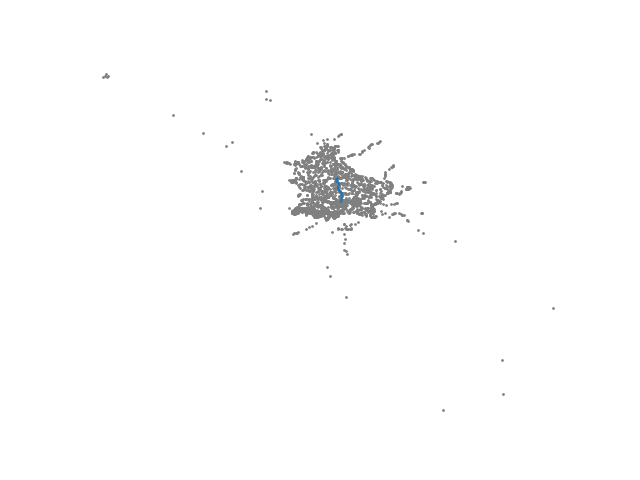
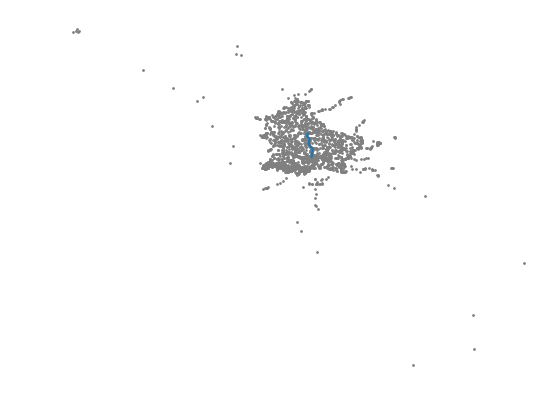
aggiunte ultime tre tratte e descrizione della coda di priorità

diff --git a/Lab2/Script/mapPrinter.py b/Lab2/Script/mapPrinter.py
@@ -52,11 +52,11 @@ def mapPrinter(graph, predecessors, lines, destination, departureTime):
     for s in changes:
         print(s)
     print("~~~~")
-    print("![](Immagini/" + path[len(path)-1] + "to" + path[0] + departureTime + ".png)")
+    print("![](Immagini/" + path[len(path)-1] + "to" + path[0] + ".png)")
     plt.plot(pathLng, pathLat, zorder=10)
     plt.plot(posLng, posLat, linestyle="none", marker="o", markersize=1, color="gray", zorder=1)
     plt.axis('off')
-    plt.savefig("../File vari/Immagini/" + path[len(path)-1] + "to" + path[0] + departureTime + ".png", bbox_inches='tight')
+    plt.savefig("../File vari/Immagini/" + path[len(path)-1] + "to" + path[0]  + ".png", bbox_inches='tight')
     plt.show()
 
 

diff --git a/Lab2/Script/main.py b/Lab2/Script/main.py
@@ -4,12 +4,16 @@ from Lab2.Script.mapPrinter import mapPrinter
 from Lab2.Script.Dijkstra import DijkstraSSSP
 from Lab2.Script.Time import Time
 import sys
+import random
 
 def main():
     g = FileParser()
-    start = sys.argv[1]
-    destination = sys.argv[2]
-    time = sys.argv[3]
+    #start = sys.argv[1]
+    #destination = sys.argv[2]
+    #time = sys.argv[3]
+    start = random.choice(list(g.nodes))
+    destination = random.choice(list(g.nodes))
+    time = "02218"
     #start = input("From what node are you starting to travel? ")
     #time = input("When do you want to leave? ")
     #destination = input("Where do you want to go? ")

diff --git a/Lab2/File vari/risposte.md b/Lab2/File vari/risposte.md
@@ -26,7 +26,16 @@ Nella classe che modella il grafo, nodi ed archi vengono gestiti con l'ausilio d
 
 ### Domanda 2
 
-Per risolvere il problema abbiamo utilizzato l'algoritmo di *Dijkstra*, implementando la coda di priorità con una *heap binaria*.
+Per risolvere il problema abbiamo utilizzato l'algoritmo di *Dijkstra*, implementando la coda di priorità con un *min-heap binario*.
+
+Il *min-heap binario* è una struttura dati che consiste in un albero binario nel quale il valore dei figli è maggiore del valore del padre, in questo modo la radice conterrà sempre il valore più basso.  
+L'heap viene implementato utilizzando un array nel quale la posizione *0* contienre un valore nullo mentre tutti i nodi dell'albero sono contenuti nelle altre posizioni con la regola che il nodo in posizione *i* avra come figlio sinistro il nodo in posizione *i\*2* e come figlio destro il nodo in posizione *i\*2+1*, abbiamo dunque utilizzato questa struttura per implementare la coda di priorità e in particolare i metodi significativi implementati sono:
+
+- extractMin(): viene estratto il nodo in posizione *1* dell'array e viene rimpiazzato dall'ultimo nodo presente nell'array, successivamente se il valore della nuova radice è maggiore dei due figli si effettua uno scambio tra il figlio minore e la radice, questo procedimento si ripete in maniera ricorsiva sul sotto-albero che ha come radice il nodo appena scambiato finchè non si trova la posizione corretta del nodo all'interno dell'albero.
+
+- InsertNode(n): l'operazione di inserimento del nodo mette in coda all'array e controlla che il suo valore sia maggiore di quello del padre, se non è così i due nodi vengono scambiati e questo procedimento si ripete finchè il nodo inserito è più grande del padre oppure quando diventa la radice.
+
+- decreaseKey(n, value): l'oerazione di decremento di priorità di un nodo prima trova il nodo all'interno dell'heap, decrementa il suo valore e successivamente lo fa risalire se necessario con lo stesso procedimento utilizzato in insertNode(n).
 
 L'algoritmo generico visto a lezione non può essere direttamente applicato al problema, poichè la soluzione di esso deve tener conto di una dipendenza dal tempo.
 Questa dipendenza ha portato ad una modifica della funzione che calcola il peso effettivo *w(A, B)*: per scegliere il percorso più breve da A a B a partire dal tempo *t*, è necessario tenere conto anche del tempo di attesa da *t* all'orario di partenza delle corse A -> B oltre al tempo di percorrenza di esse; *t*, quando viene passato a *w(A, B, t)*, è uguale alla somma dell'orario  di partenza dal nodo sorgente (in secondi) con il tempo minimo necessario ad arrivare A.
@@ -86,7 +95,7 @@ Orario di arrivo: 12:43
 
 12:20 : corsa 03712 C82 da 200417051 a 140701016
 ~~~~
-![](Immagini/200417051to14070101612:00.png)
+![](Immagini/200417051to140701016.png)
 
 
 - Viaggio da **200417051** a **140701016**
@@ -96,9 +105,57 @@ Orario di arrivo: 00:44
 
 00:09 : corsa 03623 C82 da 200417051 a 140701016
 ~~~~
-![](Immagini/200417051to14070101623:55.png)
+![](Immagini/200417051to140701016(2).png)
 
 
+- Viaggio da **130208003** a **400000129**
+~~~~ 
+Orario di partenza: 11:34
+Orario di arrivo: 13:21
+
+07:06 : corsa 01892 RGTR da 130208003 a 130203002
+07:18 : corsa 01875 RGTR da 130203002 a 140203001
+07:28 : corsa 03433 RGTR da 140203001 a 140401004
+07:39 : corsa 03528 CFLBUS da 140401004 a 140701016
+07:46 : corsa 00457 C82 da 140701016 a 200405035
+08:20 : corsa 04708 C82 da 200405035 a 200415004
+08:25 : corsa 02011 AVL da 200415004 a 200412018
+08:36 : corsa 07223 RGTR da 200412018 a 400000099
+13:01 : corsa 05860 RGTR da 400000099 a 400000129
+~~~~
+![](Immagini/130208003to400000129.png)
+
+
+- Viaggio da **110812001** a **170705002**
+~~~~ 
+Orario di partenza: 16:03
+Orario di arrivo: 18:21
+
+16:26 : corsa 08693 RGTR da 110812001 a 110101002
+16:44 : corsa 03741 C82 da 110101002 a 140701016
+17:17 : corsa 06009 RGTR da 140701016 a 140701024
+17:20 : corsa 01646 RGTR da 140701024 a 140701026
+17:22 : corsa 06009 RGTR da 140701026 a 140701018
+17:23 : corsa 01646 RGTR da 140701018 a 140503001
+17:36 : corsa 03035 RGTR da 140503001 a 180509002
+17:57 : corsa 00229 CFLBUS da 180509002 a 170201002
+18:03 : corsa 00092 CFLBUS da 170201002 a 170501016
+18:15 : corsa 02212 CFLBUS da 170501016 a 170705002
+~~~~
+![](Immagini/110812001to170705002.png)
+
+
+- Viaggio da **180305002** a **200426007**
+~~~~ 
+Orario di partenza: 22:18
+Orario di arrivo: 07:13
+
+06:18 : corsa 02892 RGTR da 180305002 a 200417050
+06:53 : corsa 02565 RGTR da 200417050 a 200417047
+06:59 : corsa 01185 RGTR da 200417047 a 200417005
+07:03 : corsa 03546 AVL da 200417005 a 200426007
+~~~~
+![](Immagini/180305002to200426007.png)
 
 
 ### Domanda 4
